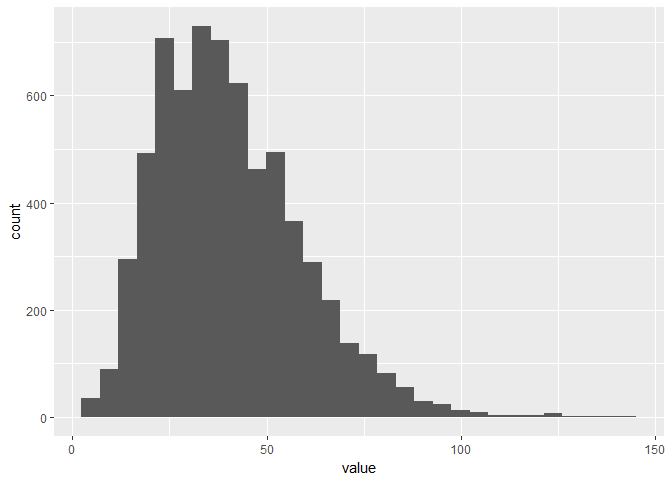
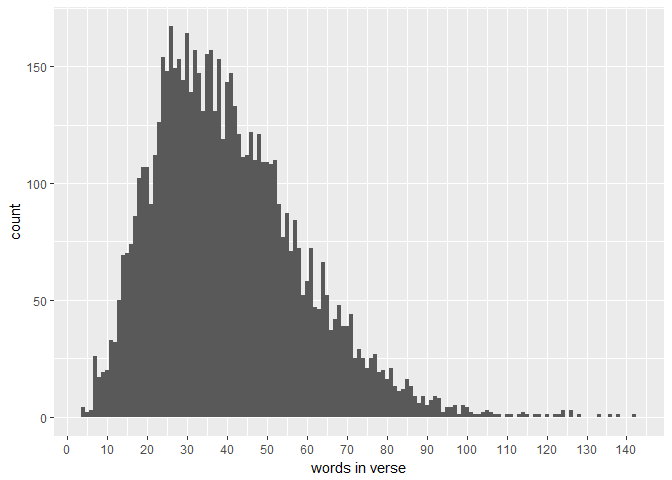
simple update to task 14 histogram

diff --git a/Case_Study_07/Class_Task_14/Task_14,_Jesus.html b/Case_Study_07/Class_Task_14/Task_14,_Jesus.html
@@ -194,9 +194,10 @@ for (i in 1:count_verses(books, &quot;BoM&quot;)) {
 }</code></pre>
 <pre class="r"><code>as.tibble(verse_lengths) %&gt;% 
   ggplot(aes(value)) +
-  geom_histogram()</code></pre>
-<pre><code>## `stat_bin()` using `bins = 30`. Pick better value with `binwidth`.</code></pre>
[1 lines of base64/hex data omitted]
+  geom_histogram(binwidth = 1) +
+  scale_x_continuous(breaks = seq(0, 150, by = 10)) +
+  labs(x = &quot;words in verse&quot;)</code></pre>
[1 lines of base64/hex data omitted]
 
 
 

diff --git a/Case_Study_07/Class_Task_14/Task_14,_Jesus.md b/Case_Study_07/Class_Task_14/Task_14,_Jesus.md
@@ -98,11 +98,9 @@ for (i in 1:count_verses(books, "BoM")) {
 ```r
 as.tibble(verse_lengths) %>% 
   ggplot(aes(value)) +
-  geom_histogram()
-```
-
-```
-## `stat_bin()` using `bins = 30`. Pick better value with `binwidth`.
+  geom_histogram(binwidth = 1) +
+  scale_x_continuous(breaks = seq(0, 150, by = 10)) +
+  labs(x = "words in verse")
 ```
 
 ![](Task_14,_Jesus_files/figure-html/unnamed-chunk-6-1.png)<!-- -->
